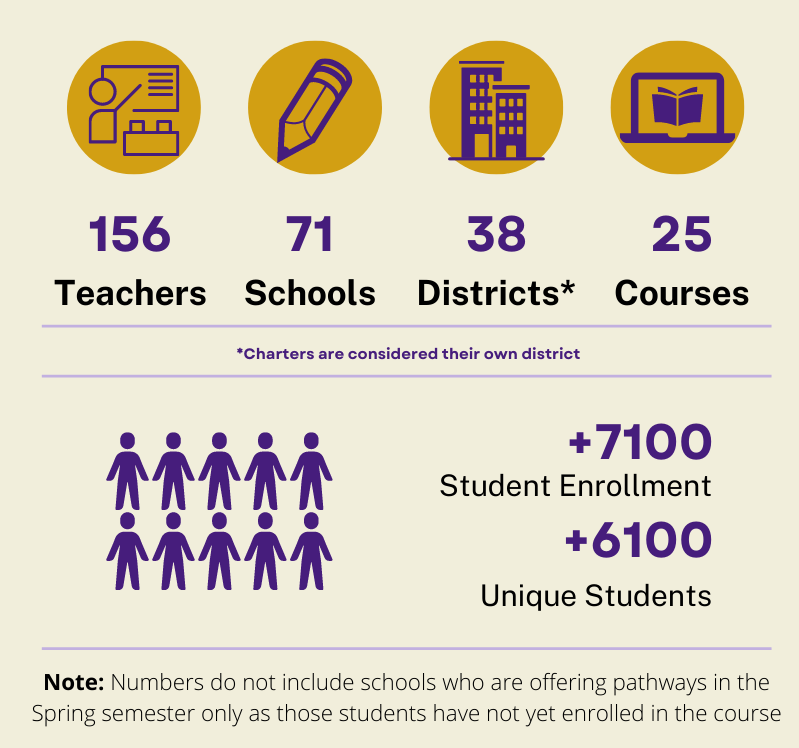
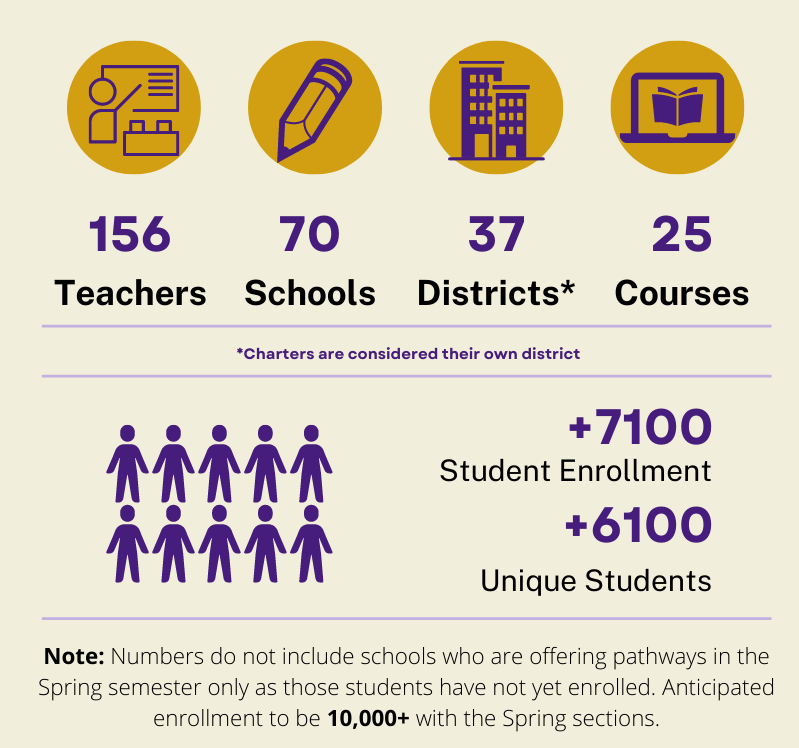
vanessa edits 2

diff --git a/content/about/_index.md b/content/about/_index.md
@@ -46,54 +46,77 @@ The statewide rollout of the LSU STEM Certification Pathways is a joint effort o
 <br>
 <br>
 
-## Who Does LSU STEM Pathways?
+## <b> Who Does LSU STEM Pathways? </b>
 <br>
-In 2022-23, we served 71 schools who offered high school credit LSU STEM pathway courses plus an additional 20 middle and elementary schools offering non-high school credit STEM electives. To see current participating schools, click the dropdown below. 
+In 2022-23, we are serving 103 schools who are offering high school and middle school LSU STEM Pathway courses. This does not include schools and districts who are offering courses in the Spring-only courses, as those students have not yet enrolled. Graphics will be updated in February 2023 to reflect the Spring student enrollment, which is anticipated to increase overall enrollment to more than 10,000 students. To see current participating schools, click the dropdown below. 
 <br>
 <br>
 
-{{< spoiler text="View 2021-22 School List" >}}
+{{< spoiler text="View 2022-23 School List" >}}
 
 - Alfred M. Barbe High School
 - Amite High Magnet
-- Baker High School
+- Baker Middle School
 - Bastrop High School
 - Baton Rouge Magnet High School
 - Beau Chene High School
 - Belaire High School
 - Benjamin Franklin High School
+- Bluff Middle School
+- Bonnabel Magnet Academy High School
+- Bossier PS for Technology & Innovative Learning
 - Breaux Bridge High School
 - Broadmoor Senior High School
 - Capitol Middle School
-- Carencro High School
 - Central High School
 - Central Middle School
+- College and Careers Center
 - Delhi Charter School
+- Delta Charter School MST
 - Denham Springs High School STEM and Robotics Center
 - Denham Springs Junior High School
-- Donaldsonville High School
 - Dutchtown High School
+- Dutchtown Middle School
 - East Ascension High School
+- East Feliciana High School
+- East Feliciana Middle School
+- East Iberville Elementary/High School
 - Einstein Charter High School at Sarah Towles Reed
 - Eunice High School
+- F. K. White Middle School
+- Franklinton High School
 - General Trass High School
 - Glasgow Middle School
 - Glen Oaks Senior High School
+- Gonzales Middle School
 - Grace King High School
 - Hammond High Magnet School
 - Haynes Academy School for Advanced Studies
+- Helix Mentorship STEAM Academy
 - IDEA Bridge
+- Independence High Magnet
+- Iowa High School
+- Istrouma High School
+- Jefferson Terrace Elementary School
 - Juban Parc Junior High School
-- Kentwood High Magnet School
+- Kenilworth Science and Technology Charter School
+- Kenner Discovery Health Sciences Academy
 - LA School for Ag Science
+- Lafayette Christian Academy
+- Lake Charles Boston Academy
+- Lake Elementary School
 - Leesville High School
 - Liberty High School
+- Linwood Public Charter School
+- Livingston Collegiate Academy
+- Lord Beaconsfield Landry High School
+- Louisiana Key Academy
+- Lowery Middle School
 - Madison High School
 - Madison Preparatory Academy
 - Mayfair Laboratory School
 - McKinley Middle Magnet School
 - McKinley Senior High School
-- Morehouse Magnet School
 - MSA East
 - New Orleans Charter Science and Mathematics HS
 - New Orleans Military & Maritime Academy
@@ -101,26 +124,35 @@ In 2022-23, we served 71 schools who offered high school credit LSU STEM pathway
 - Northeast High School
 - Northwest High School
 - Park Forest Middle School
+- Park Ridge Academic Magnet School
+- Parkview Baptist School
 - Patrick F. Taylor Science & Technology Academy
 - Pine School
 - Pointe Coupee SMA
 - Ponchatoula High School
 - Port Barre High School
-- Rapides CTEP
+- Prairieville Middle School
 - Scotlandville Magnet High School
 - Sherwood Middle Academic Academy
 - Southeast Middle School
 - Southside Junior High School
 - St. Amant High School
-- St. James College and Careers Center
+- St. Amant Middle School
 - St. John the Baptist SMA
 - St. Martinville Junior High School
 - St. Martinville Senior High School
+- St. Mary's Dominican High School
 - Sulphur High School
-- Tara High School
+- Thomas Jefferson High School for Advanced Studies
+- University Lab High
+- University Lab Middle
+- Vinton High School
+- Washington/Marion Magnet High School
 - West Feliciana High School
-- West Feliciana Middle School
+- West St. John Elementary School (K-7)
+- West St. John High School
 - Westdale Middle School
+- Westside Junior High School
 - Winnfield High School
 - Woodlawn High School
 - Woodlawn Middle School
@@ -129,7 +161,7 @@ In 2022-23, we served 71 schools who offered high school credit LSU STEM pathway
 {{< /spoiler >}}
 
 <img src = "../../../graphics/allgraphic.png" width="450" height="550" style ="float: left">
-<img src="https://media.giphy.com/media/4acO5F99G3XQViUKcI/giphy.gif" alt="This is a gif that has 6 slides each displayed for 2 seconds.  Each slide shows a map of Louisiana and the parishes that are offering STEM pathway courses in each year from  2016-17 to 2022-23 are varying shades of yellow.  17/18: 8, 18/19: 26, 19/20: 39, 20/21: 54 21/22: 71, 22/23: 121 anticipated. " width="450" height="550">
+<img src="https://media.giphy.com/media/vYwQ4q6Jyi1MUi8T0U/giphy.gif" alt="This is a gif that has 6 slides each displayed for 2 seconds.  Each slide shows a map of Louisiana and the parishes that are offering STEM pathway courses in each year from  2016-17 to 2022-23 are varying shades of yellow.  17/18: 8, 18/19: 26, 19/20: 39, 20/21: 54 21/22: 71, 22/23: 121 anticipated. " width="450" height="550">
 <center>
 <table>
   <tr>
@@ -147,8 +179,8 @@ Follow us on <a href="https://www.linkedin.com/showcase/lsu-pathways" target="_b
 <br>
 <br>
  </center>
- 
- ## Why Be a Part of LSU STEM Pathways?
+
+ ## <b> Why Be a Part of LSU STEM Pathways? </b>
 <br>
 
  School districts, teachers, and students all benefit from participating in LSU Pathways.

diff --git a/content/project/Middle School/index.md b/content/project/Middle School/index.md
@@ -23,7 +23,12 @@ While the Louisiana Department of Education (LDOE) STEM Pathways are designed fo
 
 <br>
 
-## <b> High school credit STEM Pathways courses for middle school students </b>
+## <b> Who Does Middle School LSU STEM Pathways for High School Credit? </b>
+
+<img src = "../../../graphics/msgraphichsc.png" width="550" height="650">
+<img src = "../../../graphics/msmaphsc.png" width="550" height="650">
+
+## High School Credit Course Information
 <br>
 LSU STEM Pathways has two high school courses that can be taken in middle school for high school credit. These courses are designed to help students gain a wide breadth of knowledge in preparation for choosing their preferred pathway, laying a solid groundwork for any of the four LSU STEM pathways. 
 <br>
@@ -78,38 +83,29 @@ For a list of materials for this course please <a href="../../syllabi/SurveyOfCo
 {{< /spoiler >}}
 <br>
 
+## <b> Who Does LSU STEM Pathways for Middle School Credit? </b> 
 
-## Who Does Middle School LSU STEM Pathways for High School Credit?
+<img src = "../../../graphics/msgraphic.png" width="550" height="650">
+<img src = "../../../graphics/msmap.png" width="550" height="650">
 
-<img src = "../../../graphics/msgraphichsc.png" width="550" height="650">
-<img src = "../../../graphics/msmaphsc.png" width="550" height="650">
-<br>
-
-
-## <b> Middle school STEM Pathways for middle school credit </b>
+## Middle School Credit Course Information
 <br>
 
 The Middle School STEM Pathways Program is pleased to announce we will be piloting new 6th grade courses in summer of 2022. This will allow us to expand the number of quality course offerings at the middle school level that support STEM and PBL in the classrooms. 
  
 For more information on our newest pilots-- Aquaponics, Step into STEM, and Intro to Computing-- please contact Nicole Foster at nfoster1@lsu.edu or Dr. Frank Neubrander at fneub1@lsu.edu
- <br>
- <br>
-
-## Who Does LSU STEM Pathways for Middle School Credit?
-
-<img src = "../../../graphics/msgraphic.png" width="550" height="650">
-<img src = "../../../graphics/msmap.png" width="550" height="650">
 <br>
-
-## <b> Middle School STEM Training Modules </b>
-For a list of materials for the Middle School STEM Modules please <a href="../../syllabi/MSModules.pdf" target="_blank">click here.</a>
 <br>
 <br>
 
-## Who Does LSU STEM Pathways Middle School Training Modules?
+## <b> Who Does LSU STEM Pathways Middle School Training Modules? </b>
 
 <img src = "../../../graphics/msgraphicmodule.png" width="550" height="650">
 <img src = "../../../graphics/msmapmodule.png" width="550" height="650">
+
+## Training Modules Course Information
+<br>
+For a list of materials for the Middle School STEM Modules please <a href="../../syllabi/MSModules.pdf" target="_blank">click here.</a>
 <br>
 <br>
 <br>

diff --git a/content/project/High School/index.md b/content/project/High School/index.md
@@ -42,10 +42,11 @@ LSU Pathways for high school is a robust curriculum designed for in-depth study 
 
 <img src = "../../../graphics/hsgraphic.png" width="550" height="650"><img src = "../../../graphics/hsmap.png" width="550" height="650"> 
 
-<br>
-
 ## Basic Career Readiness Course (All Pathways)
+<br>
 Introduction to STEM Pathways and Careers is a Jumpstart 2.0 Basic Career Readiness course that can be taken in either high school or in middle school for high school credit. It can be applied toward any of the four STEM Pathways or any of the Jumpstart 2.0 pathways. 
+<br>
+<br>
 {{< spoiler text="Introduction to STEM Pathways and Careers" >}}
 
 Introduction to STEM Pathways and Careers was developed for the Louisiana Department of Education through a partnership between Louisiana State University and the East Baton Rouge Parish School System, with partial funding from the National Science Foundation. This course is a high school credit basic career readiness course that counts on all STEM Pathways as well as towards traditional Jumpstart diplomas.  While the course is designed to be taken in high school, it is available to students as early as seventh grade. 
@@ -74,6 +75,7 @@ For a complete list of LDOE Jump Start universal courses please <a href="https:/
  <br>
 
 ## STEM Pathways Options
+<br>
 Click a dropdown to learn more about each pathway, including a syllabus for each class.
 <br>
 <br>

diff --git a/content/project/Elementary School/index.md b/content/project/Elementary School/index.md
@@ -23,8 +23,6 @@ LSU Pathways for elementary school consists of introductory courses designed to 
 ## <b> Who Does LSU STEM Pathways for Elementary School? </b>
 <img src = "../../../graphics/esgraphic.png" width="550" height="650">
 <img src = "../../../graphics/esmap.png" width="550" height="650">
-<br>
-
 
 ## Course Information
 <br>
